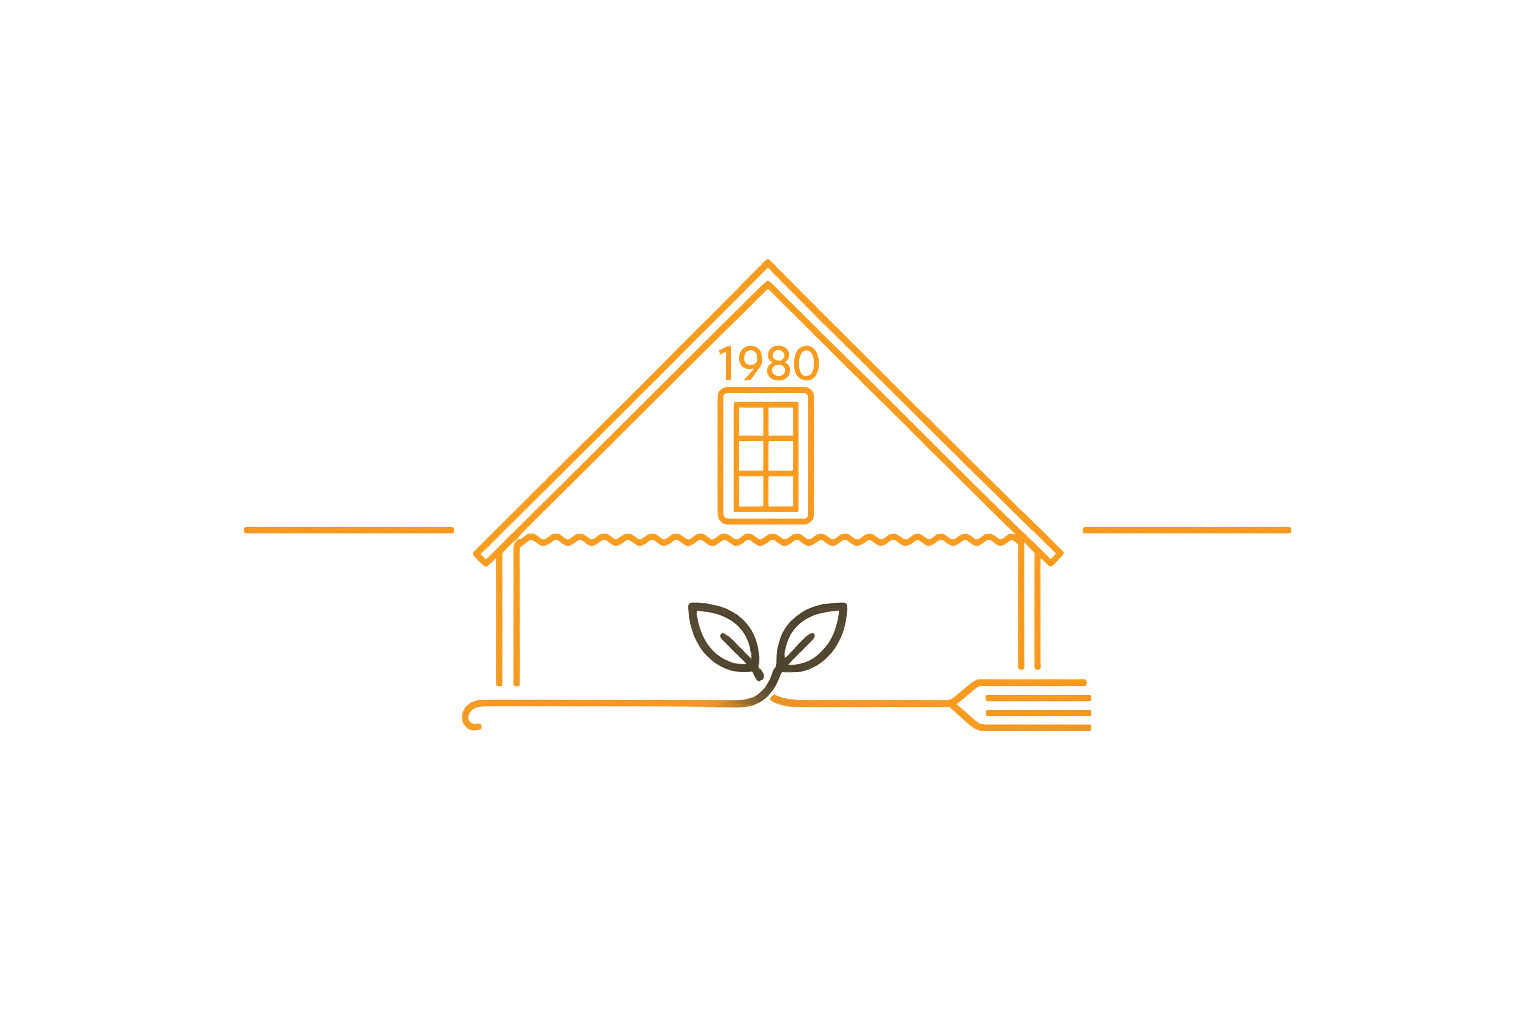
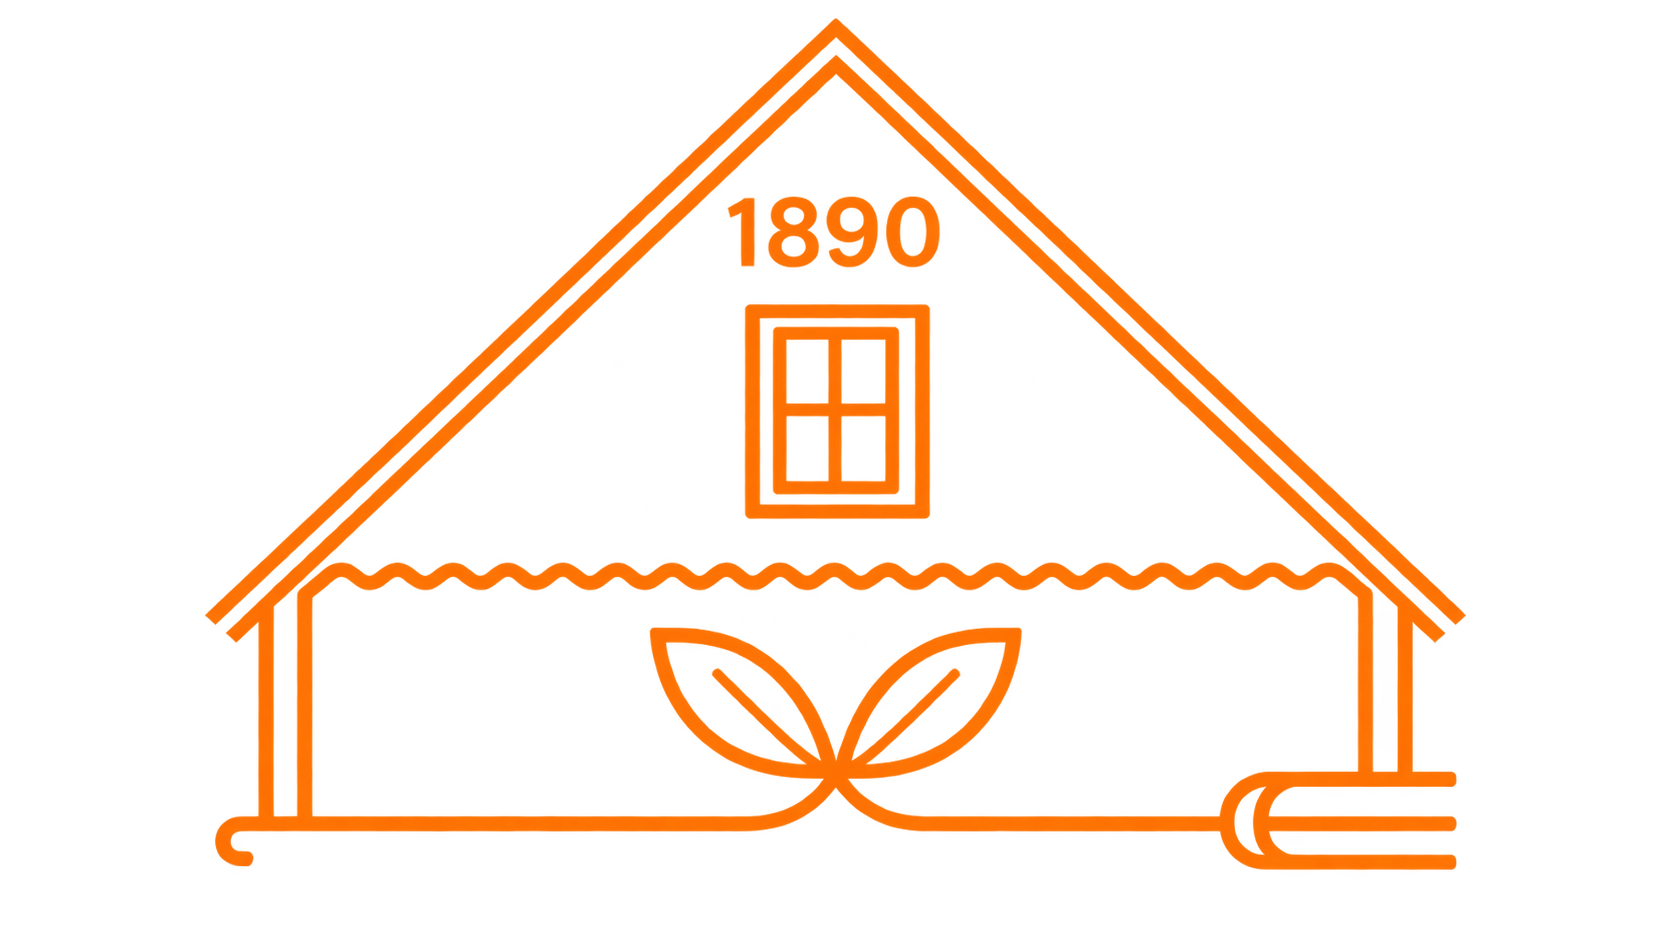
Add files via upload

Changed region(s): [[0.125, 0.0308, 0.875, 0.9245]]

diff --git a/style.css b/style.css
@@ -59,7 +59,7 @@ body.menu-open {
     grid-template-columns:120px 1fr;
     align-items:center;
 
-    background:linear-gradient(90deg,var(--green),var(--green2));
+    background:#F7EAD5;
     box-shadow:0 8px 25px rgba(0,0,0,.24);
 }
 
@@ -81,10 +81,11 @@ body.menu-open {
 }
 
 .menu-toggle span{
+    display:block;
     width:52px;
     height:4px;
     border-radius:3px;
-    background:var(--cream);
+    background:#174d32;
     transition:.25s ease;
 }
 
@@ -100,17 +101,112 @@ body.menu-open {
     transform:translateY(-17px) rotate(-45deg);
 }
 
+
+/* =====================================================
+   HEADER BRAND
+===================================================== */
+
 .brand{
     width:100%;
+    height:100%;
+
     display:flex;
-    justify-content:center;
     align-items:center;
+    justify-content:center;
+
+    gap:22px;
+
+    text-decoration:none;
 }
 
-.brand img{
-    width:560px;
-    height:auto;
+
+/* TEXT LOGO */
+
+.brand-wordmark{
+    display:flex;
+    flex-direction:column;
+    align-items:center;
+    justify-content:center;
+
+    line-height:1.1;
 }
+
+
+/* LOCAL AFFAIRS */
+
+.brand-local{
+    color:var(--cream);
+
+    font-family:Georgia, "Times New Roman", serif;
+    font-size:47px;
+    font-weight:700;
+    font-style:italic;
+    color:#174d32;
+
+
+    letter-spacing:-1px;
+
+    text-shadow:
+      1px 1px 0 rgba(0,0,0,.25);
+}
+
+
+/* CAFE + LINES */
+
+.brand-affairs-row{
+    display:flex;
+    align-items:center;
+    justify-content:center;
+    gap:7px;
+}
+
+
+.brand-affairs{
+    color:#174d32;
+
+
+    font-family:Georgia, "Times New Roman", serif;
+    font-size:52px;
+    font-weight:700;
+    font-style:italic;
+
+    letter-spacing:1px;
+}
+
+
+/* GOLD / ORANGE LINES */
+
+.brand-line{
+    display:block;
+
+    height:2px;
+    background:#174d32;
+
+}
+
+
+.brand-line-left{
+    width:95px;
+}
+
+
+.brand-line-right{
+    width:145px;
+}
+
+
+/* HOUSE */
+
+.brand-house{
+    display:block;
+
+    width:205px;
+    height:auto;
+
+    flex-shrink:0;
+}
+
+
 
 /* =====================================================
    MAIN LAYOUT
@@ -649,18 +745,18 @@ body.menu-open {
     justify-content: initial;
   }
 
-  .menu-toggle {
-    position: relative;
-    left: auto;
-    justify-self: center;
-    width: 32px;
-    height: 24px;
-  }
+    .menu-toggle{
+        width:32px;
+        height:24px;
+        background:transparent;
+    }
 
-  .menu-toggle span {
-    width: 32px;
-    height: 2px;
-  }
+    .menu-toggle span{
+        display:block;
+        width:32px;
+        height:2px;
+        background:#174d32;
+    }
 
   .menu-toggle.active span:nth-child(1) {
     transform: translateY(11px) rotate(45deg);
@@ -670,20 +766,70 @@ body.menu-open {
     transform: translateY(-11px) rotate(-45deg);
   }
 
-  .brand {
-    width: 100%;
-    display: flex;
-    align-items: center;
-    justify-content: center;
-    transform: translateX(-12px);
-  }
+  .brand{
+    width:100%;
+    height:100%;
 
-  .brand img {
-    display: block;
-    width: 300px;
-    max-width: 90%;
-    height: auto;
-  }
+    display:flex;
+    align-items:center;
+    justify-content:center;
+
+    gap:7px;
+
+    transform:translateX(-8px);
+}
+
+
+.brand-wordmark{
+    line-height:1.1;
+}
+
+
+.brand-local{
+    font-size:18px;
+    letter-spacing:-.3px;
+    color:#174d32;
+
+}
+
+
+.brand-affairs{
+    font-size:20px;
+    letter-spacing:.3px;
+    color:#174d32;
+
+}
+
+
+.brand-affairs-row{
+    gap:3px;
+}
+
+
+.brand-line{
+    height:1px;
+    color:#174d32;
+
+}
+
+
+.brand-line-left{
+    width:38px;
+}
+
+
+.brand-line-right{
+    width:55px;
+}
+
+
+.brand-house{
+    width:88px;
+    height:auto;
+}
+
+
+
 
   /* Main layout */
   .layout {

diff --git a/index.html b/index.html
@@ -27,8 +27,26 @@
   </button>
 
   <a href="#home" class="brand">
-    <img src="title.png" alt="The Local Affair">
-  </a>
+
+  <div class="brand-wordmark">
+    <span class="brand-local">LOCAL AFFAIRS</span>
+
+    <div class="brand-affairs-row">
+      <span class="brand-line brand-line-left"></span>
+      <span class="brand-affairs">CAFE</span>
+
+      <span class="brand-line brand-line-right"></span>
+    </div>
+  </div>
+
+  <img
+    src="house1.png"
+    alt=""
+    class="brand-house"
+    aria-hidden="true"
+  >
+
+</a>
 </header>
 
 <div class="mobile-overlay" id="mobileOverlay"></div>
@@ -131,9 +149,10 @@
     <h4>Hours</h4>
 
     <p>
-      Open Daily<br>
-      07:30 AM – 11:00 AM
+      Breakfast/Brunch<br>
+      08:00 AM – 02:00 PM
     </p>
+    <p>(Lunch opening in progress)</p>
   </div>
 
   <div class="bottom-detail">
